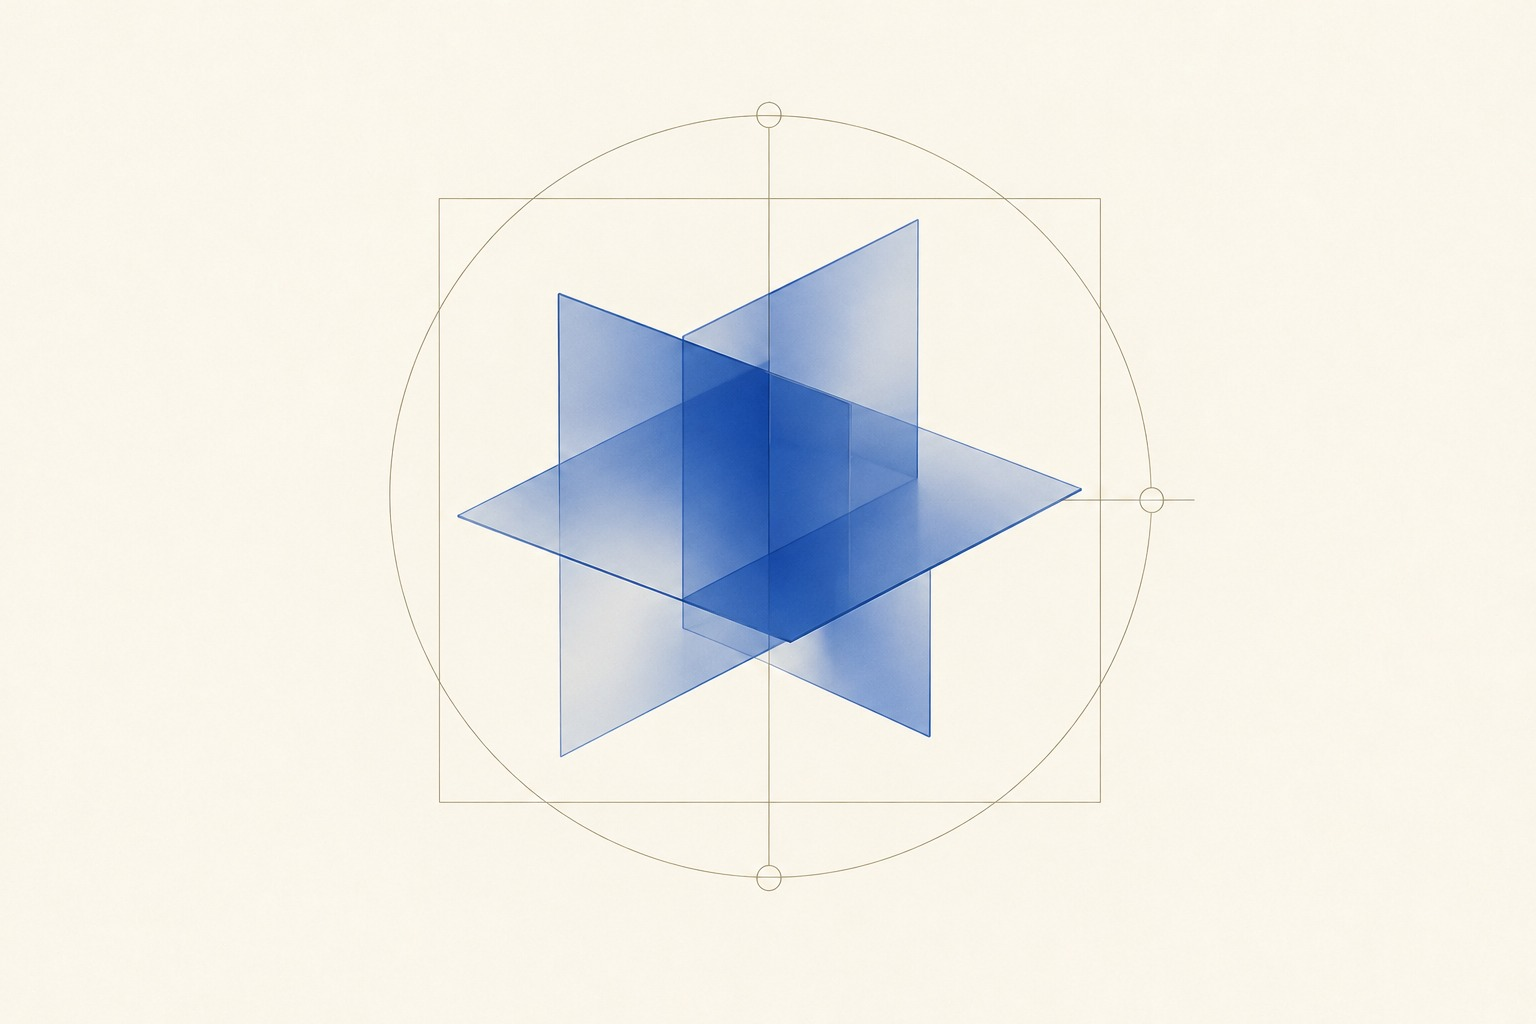
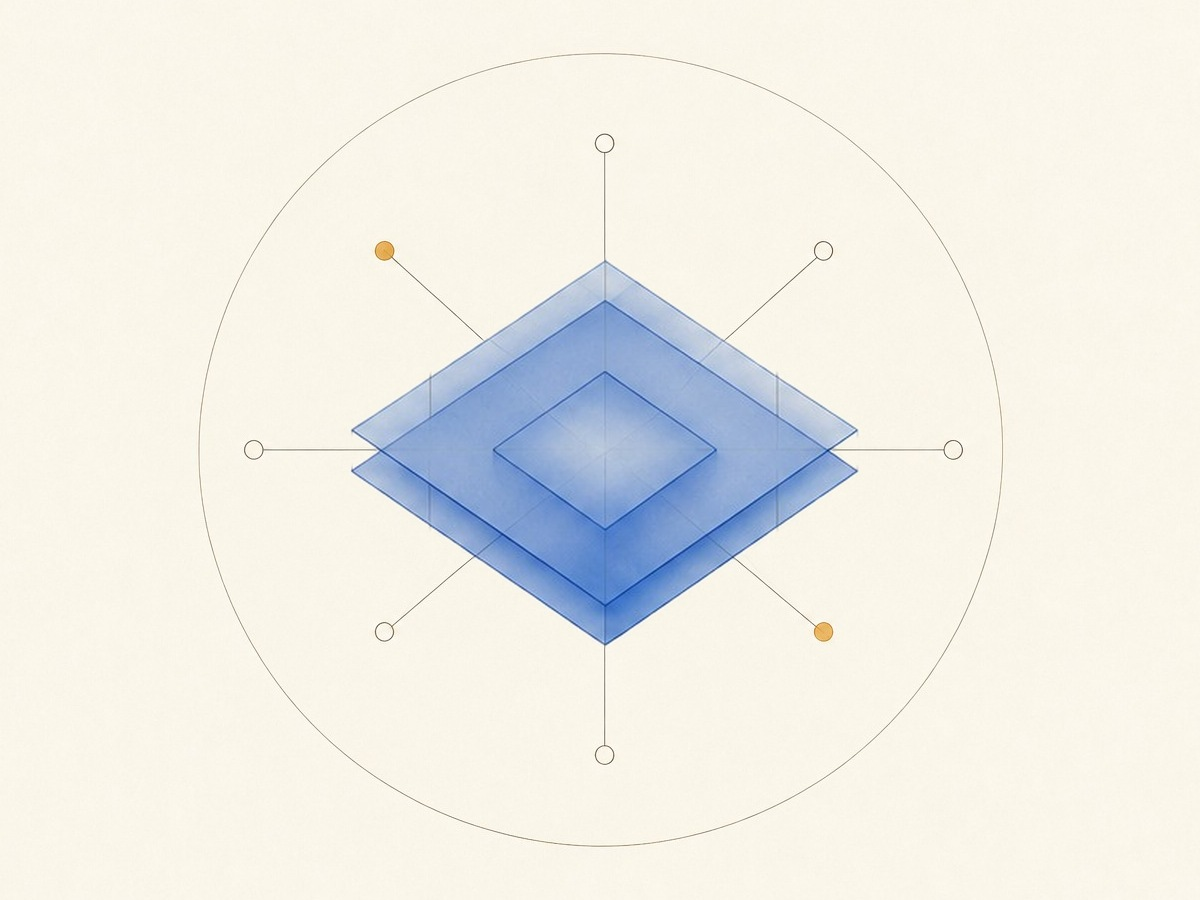
style: add dark-mode vector BrandLogo and circuit artwork for CS/EE shelf

diff --git a/src/components/BrandLogo.tsx b/src/components/BrandLogo.tsx
@@ -1,3 +1,5 @@
+import { useId } from 'react'
+
 export function BrandLogo({
   size = 28,
   className = '',
@@ -5,14 +7,79 @@ export function BrandLogo({
   size?: number
   className?: string
 }) {
+  const clipId = useId()
+
   return (
-    <img
-      src="./images/brand-logo.png"
-      alt="USTC QBank Studio"
+    <svg
+      xmlns="http://www.w3.org/2000/svg"
+      viewBox="0 0 512 512"
       width={size}
       height={size}
-      draggable={false}
-      className={`inline-block shrink-0 rounded-[22%] object-contain select-none ${className}`}
-    />
+      fill="none"
+      role="img"
+      aria-label="USTC QBank Studio"
+      className={`inline-block shrink-0 select-none ${className}`}
+    >
+      <clipPath id={clipId}>
+        <rect x="14" y="14" width="484" height="484" rx="116" />
+      </clipPath>
+      <rect
+        x="14"
+        y="14"
+        width="484"
+        height="484"
+        rx="116"
+        fill="var(--logo-bg)"
+        stroke="var(--logo-border)"
+        strokeWidth="8"
+      />
+      <g clipPath={`url(#${clipId})`} stroke="var(--logo-arc)" strokeWidth="5">
+        <circle cx="512" cy="512" r="150" />
+        <circle cx="512" cy="512" r="215" />
+        <circle cx="512" cy="512" r="280" strokeDasharray="10 18" strokeLinecap="round" />
+      </g>
+      <path
+        d="M138 100 H298 L374 176 V412 H138 Z"
+        fill="var(--logo-doc-fill)"
+        stroke="var(--logo-stroke)"
+        strokeWidth="20"
+        strokeLinejoin="round"
+      />
+      <path
+        d="M298 100 L374 176 H298 Z"
+        fill="var(--logo-accent)"
+        stroke="var(--logo-stroke)"
+        strokeWidth="20"
+        strokeLinejoin="round"
+      />
+      <rect x="186" y="150" width="26" height="26" rx="5" fill="var(--logo-accent)" />
+      <line
+        x1="186"
+        y1="236"
+        x2="326"
+        y2="236"
+        stroke="var(--logo-stroke)"
+        strokeWidth="20"
+        strokeLinecap="round"
+      />
+      <line
+        x1="186"
+        y1="292"
+        x2="326"
+        y2="292"
+        stroke="var(--logo-stroke)"
+        strokeWidth="20"
+        strokeLinecap="round"
+      />
+      <line
+        x1="186"
+        y1="348"
+        x2="266"
+        y2="348"
+        stroke="var(--logo-accent)"
+        strokeWidth="20"
+        strokeLinecap="round"
+      />
+    </svg>
   )
 }

diff --git a/src/index.css b/src/index.css
@@ -26,6 +26,12 @@
   --glass-border: rgba(255, 255, 255, 0.72);
   --glass-outline: rgba(28, 30, 33, 0.08);
   --glass-pill: rgba(28, 30, 33, 0.075);
+  --logo-bg: #FAF9F5;
+  --logo-border: #DCD8CE;
+  --logo-arc: #E6E3DA;
+  --logo-doc-fill: #FFFFFF;
+  --logo-stroke: #15181E;
+  --logo-accent: #2666CF;
   --font-serif: "Newsreader", "Noto Serif SC", "Songti SC", Georgia, serif;
   --font-sans: "Inter", "Noto Sans SC", -apple-system, BlinkMacSystemFont, "Segoe UI", sans-serif;
   --font-mono: "JetBrains Mono", ui-monospace, SFMono-Regular, Menlo, monospace;
@@ -56,6 +62,12 @@
   --glass-border: rgba(255, 255, 255, 0.12);
   --glass-outline: rgba(0, 0, 0, 0.45);
   --glass-pill: rgba(255, 255, 255, 0.11);
+  --logo-bg: #1E2127;
+  --logo-border: #323742;
+  --logo-arc: #272B34;
+  --logo-doc-fill: #16181D;
+  --logo-stroke: #EDEBE5;
+  --logo-accent: #689BF8;
 }
 
 @layer base {
